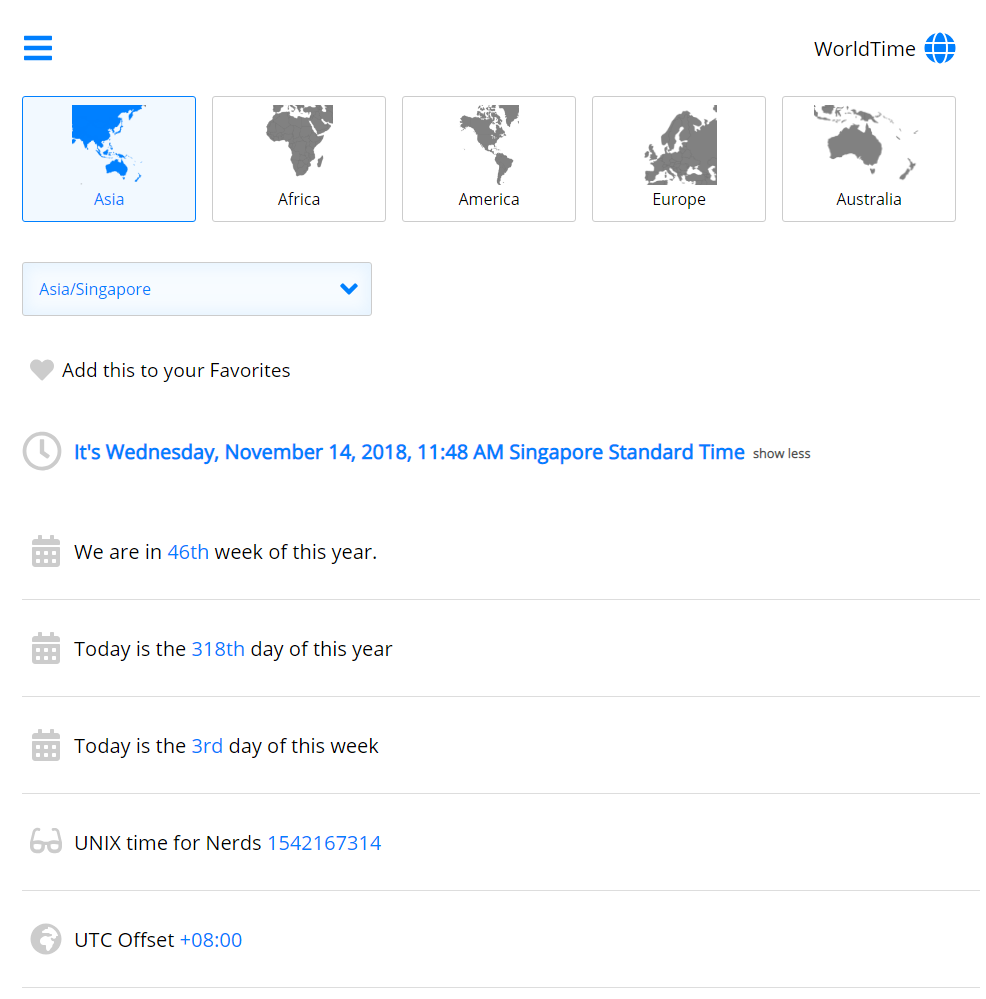
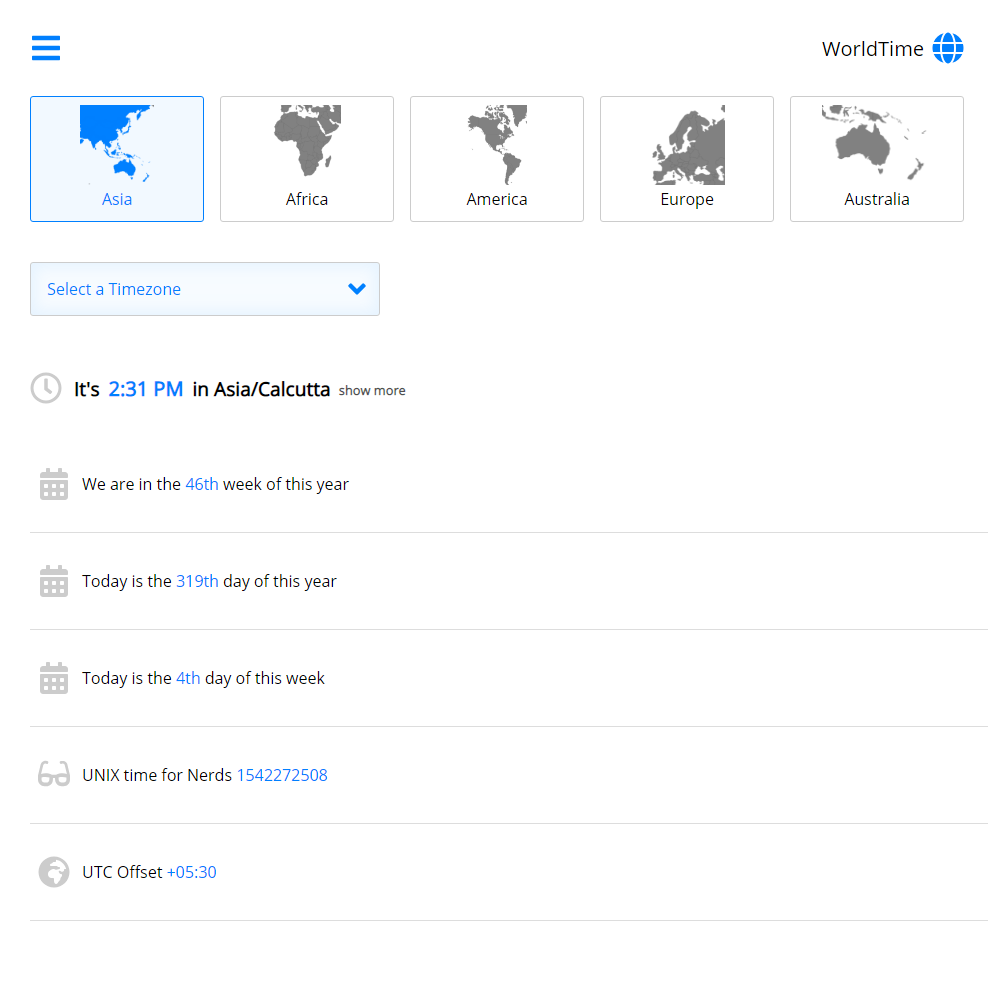
updated readme and minor ux improvement

diff --git a/client/src/components/timezone/index.tsx b/client/src/components/timezone/index.tsx
@@ -6,7 +6,8 @@ import gql from "graphql-tag";
 import * as React from "react";
 import Timezones from "../timezone/timezones";
 import styled from "styled-components";
-import {ReactComponent as LoadingSVG} from "../../assets/loading-2.svg"
+import { ReactComponent as LoadingSVG } from "../../assets/loading-2.svg";
+import MainState from "../common/mainState";
 
 const Loading = styled.div`
   padding: 1rem;
@@ -29,19 +30,29 @@ const query = gql`
 
 export default () => (
   // subscribe to region state change
-  <Subscribe to={[RegionState, TimezoneState]}>
-    {({ state }: RegionState, timeZoneState: TimezoneState) => (
+  <Subscribe to={[RegionState, TimezoneState, MainState]}>
+    {(
+      { state }: RegionState,
+      timeZoneState: TimezoneState,
+      mainState: MainState
+    ) => (
       // fetch the timezones via the query component
       <Query
         query={query}
-        variables={{ name: state.selectedRegion }}
+        variables={{
+          name: state.selectedRegion || mainState.state.defaultRegion
+        }}
         // skip={state.selectedRegion === ""}
         fetchPolicy={"cache-and-network"}
       >
         {({ loading, data, error }) => {
           let view = null;
           if (loading) {
-            view = <Loading><LoadingSVG /></Loading>;
+            view = (
+              <Loading>
+                <LoadingSVG />
+              </Loading>
+            );
           }
           if (!loading && data) {
             view = (

diff --git a/client/src/components/sidebar/sidebar-styles.tsx b/client/src/components/sidebar/sidebar-styles.tsx
@@ -47,8 +47,9 @@ export const SideBar = styled.section`
   }
 
   h1 {
-    font-size: 2rem;
+    font-size: 1.5rem;
     color: #007FFE;
+    margin: 1rem 0;
   }
 `;
 
